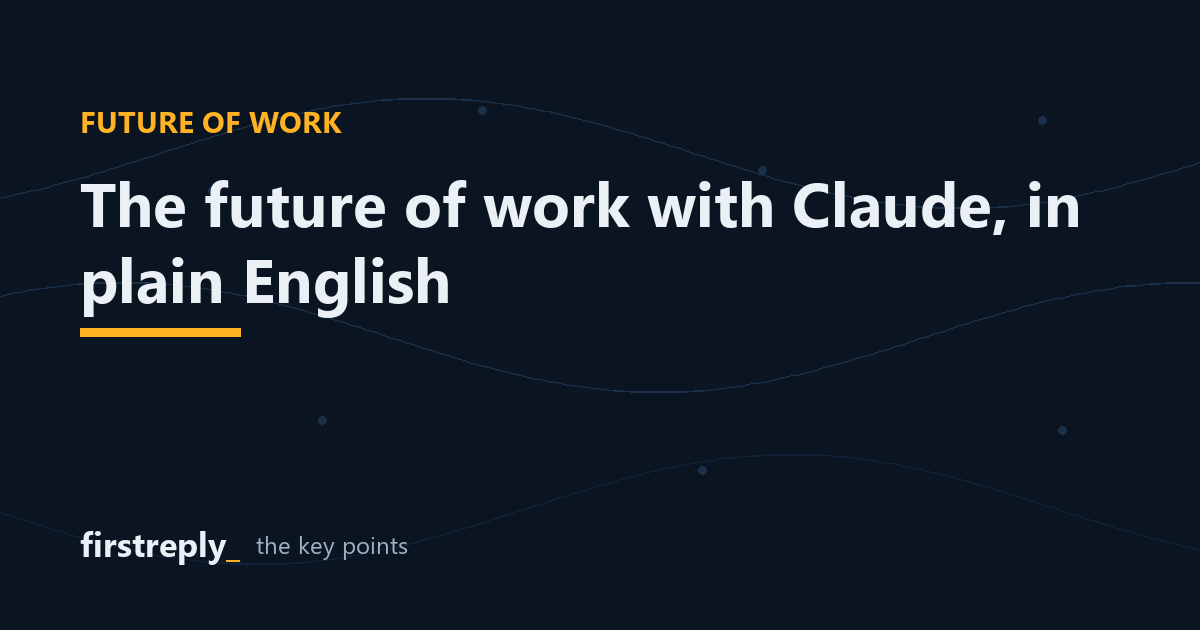
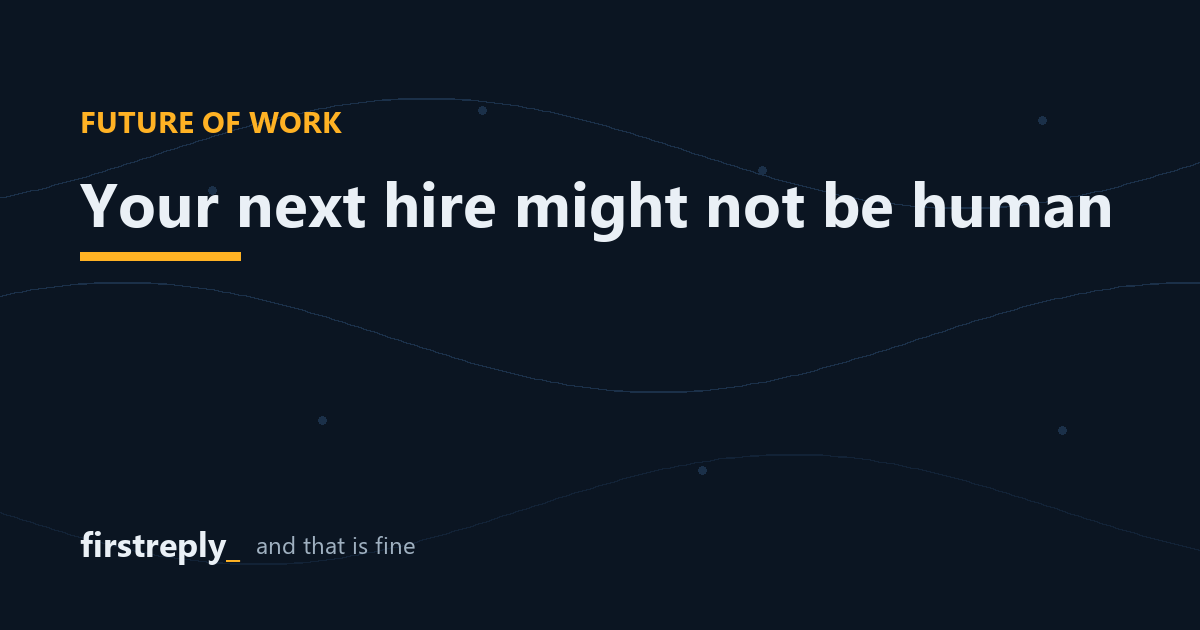
Rewrite future-of-work post in StoryBrand voice; bake voice rules into template

Changed region(s): [[0.0617, 0.2714, 0.925, 0.3921], [0.0617, 0.3921, 0.4008, 0.5429], [0.2158, 0.8444, 0.3392, 0.9048]]

diff --git a/blog/_TEMPLATE.html b/blog/_TEMPLATE.html
@@ -3,11 +3,17 @@
   POST TEMPLATE — the daily writing routine copies this file to
   blog/<slug>.html and replaces every {{PLACEHOLDER}}. Do not link to this
   file from anywhere. Rules for the writer:
+  · VOICE: follow Donald Miller's StoryBrand framework. The READER is the
+    hero; Golam is the guide (empathy + authority), never the hero. Titles
+    are about the reader's problem or transformation, not about a product
+    or piece of news ("Your next hire might not be human", NOT "Claude
+    announces X"). Open inside the reader's problem (a scene they live),
+    position the guide briefly, give a clear 3-step plan, name the stakes
+    (what failure costs), end with one call to action.
   · British English, first person (Golam's voice), practical and specific
   · 900–1,300 words, varied sentence length, no AI-hype words
     (never "revolutionise", "unleash", "supercharge", "game-changer",
     "in today's fast-paced world", "delve", "elevate")
-  · Open with a concrete scene or number, not a definition
   · At least one honest "you don't need us for this" moment
   · No invented statistics or fake client stories; keep anecdotes generic
     unless they refer to the real Diji Catering case study

diff --git a/content/posts/claude-future-of-work-key-points.md b/content/posts/claude-future-of-work-key-points.md
@@ -1,43 +1,49 @@
 ---
-title: "The future of work with Claude: the key points, in plain English"
+title: "Your next hire might not be human (and that's not a bad thing)"
 date: 2026-07-05
 image: /blog/images/claude-future-of-work.png
-description: Anthropic's "The future of work" video explains AI that works for days, remembers context and joins your team chat. Here's what it means, simply.
-teaser: AI that works for days without losing the plot, remembers what it learned, and joins your team chat. The key points, no jargon.
+description: You're working late again while the way work gets done quietly changed. Here's what's replacing the grind — and the three moves to make before your competitors do.
+teaser: You're still doing everything yourself. The way work gets done just quietly changed — here are the three moves to make first.
 archived: false
 ---
-<p>Anthropic — the company behind the Claude AI — recently published a short video called <a href="https://www.youtube.com/watch?v=MhfnicQVkgY" rel="noopener">The future of work with Claude</a>, featuring Boris Cherny and Cat Wu, the two people who run Claude Code. It's eleven minutes long, aimed mostly at a technical crowd, and easy to switch off halfway through if you don't live in that world.</p>
+<p>It's 9pm. You're still at the laptop. There's a quote to send, two enquiries you haven't answered, and a report you promised yourself you'd finish on Monday. It's Thursday.</p>
 
-<p>That would be a shame, because underneath the product talk are three shifts that will reach every business — including the ones that don't think of themselves as "tech businesses" at all. Here are the key points, translated.</p>
+<p>You didn't start your business for this. You started it for the food, or the students, or the events — the craft. The admin was supposed to be the small print. Somewhere along the way it became the job.</p>
 
-<h2>1. AI is moving from "ask and wait" to "tag it in"</h2>
+<p>Here's what I want you to know: while you were buried in that inbox, the way work gets done quietly changed. I watched an eleven-minute conversation between the two people who run Claude Code at Anthropic — <a href="https://www.youtube.com/watch?v=MhfnicQVkgY" rel="noopener">it's here if you want it</a> — and it confirmed something I've been telling clients all year. The winners of the next few years won't be the businesses that work the longest hours. They'll be the ones who learned to delegate to machines first — without handing over the steering wheel.</p>
 
-<p>The line that opens the video sums it up: <em>"In the past, you had to open Claude and ask. With Claude Tag, Claude jumps in."</em></p>
+<p>Let me translate what's coming, because it affects you more than it affects the tech crowd it was filmed for.</p>
 
-<p>Until now, using AI meant stopping what you were doing, opening a chat window, explaining everything from scratch, and copying the answer back out. The new model is different: the AI sits inside the tools your team already uses — in this case Slack — and you simply tag it into a conversation the way you'd tag a colleague. It reads what the thread already knows, does the work, and comes back when it's finished or needs a decision from you.</p>
+<h2>The assistant that stopped waiting to be asked</h2>
 
-<p>Why it matters to you: the friction was always the real barrier. Most business owners don't avoid AI because it's not clever enough — they avoid it because it's another tab, another login, another thing to remember. When the AI comes to where the work already happens, that excuse disappears.</p>
+<p>The line that opens the video: <em>"In the past, you had to open Claude and ask. With Claude Tag, Claude jumps in."</em></p>
 
-<h2>2. AI can now stay on a task for days, not minutes</h2>
+<p>Until now, AI was a vending machine. Walk over, put in a question, carry the answer back to your actual work. Useful, but the walking was on you — and that's exactly why you stopped using it after week two.</p>
 
-<p>The video describes the research behind "long-horizon" work — teaching the AI to stay on track across a task that takes days rather than losing the plot after ten minutes. Paired with a memory system that carries what it learned from one session into the next, the AI stops being a goldfish.</p>
+<p>The new generation joins the conversation where it's already happening. You tag it in like a colleague. It reads the thread, does the job, and reports back when it's done. The friction — the reason AI never stuck for you — is being deleted.</p>
 
-<p>Why it matters to you: think about what actually eats your week. It's rarely one big task — it's the long-running, drip-fed ones. Chasing a supplier across five emails. Following up a quote three times. Reconciling the month's enquiries against bookings. Those are exactly the jobs that used to be impossible to hand to AI, because it forgot everything between steps. That constraint is dissolving.</p>
+<h2>The assistant that doesn't forget you overnight</h2>
 
-<h2>3. The people building it use it for most of their own work</h2>
+<p>Two more things from that conversation matter to you. First, this AI can now stay on a task for <strong>days</strong> without losing the plot. Second, it remembers — what it learned about the work last week is still there this week.</p>
 
-<p>The most striking number in the video: <strong>65% of the Claude product team's code is now created by Claude itself</strong>. The people with the deepest knowledge of the tool's limits trust it with the majority of their core output — with humans reviewing and steering.</p>
+<p>Stop and think about what actually steals your evenings. It's rarely one big task. It's the long, drip-fed ones: the quote you've chased three times, the supplier thread that's been open since March, the follow-ups that only exist in your head. Those were impossible to hand to a machine with amnesia. They aren't any more.</p>
 
-<p>Why it matters to you: notice the shape of that arrangement, because it's the honest template for every business. The AI does the volume; the humans do the judgement. Nobody at Anthropic is letting the AI ship whatever it likes — the work is reviewed. That's the same principle we insist on at Firstreply: <a href="/blog/how-ai-helps-digital-marketing-and-seo">AI drafts, humans approve</a> — whether it's code or a reply to a customer enquiry.</p>
+<h2>The number that should change your mind</h2>
 
-<h2>What this means for a small business, practically</h2>
+<p>Here's the proof this isn't hype: <strong>65% of the Claude product team's own code is now written by Claude</strong>. The people who know this technology's flaws better than anyone on earth trust it with most of their core output.</p>
 
-<ul>
-<li><strong>Stop thinking of AI as a chatbot.</strong> The direction of travel is an assistant that lives inside your existing tools, holds context over time, and handles whole processes — not one-off questions.</li>
-<li><strong>List your "days-long" tasks.</strong> Quote follow-ups, enquiry chasing, weekly reporting, content that goes out on schedule. These are the first candidates for the new generation of AI systems.</li>
-<li><strong>Keep a human on the approve button.</strong> The world's leading AI lab reviews its AI's work before it ships. So should you — especially for anything that reaches a customer.</li>
-</ul>
+<p>But catch the second half, because it's the half that protects you: every piece of that work is <em>reviewed by a human before it ships</em>. The machine does the volume. The people do the judgement. That's not a compromise — that's the design. It's the same rule I refuse to break in the systems we build: AI drafts your customer replies, <a href="/blog/how-ai-helps-digital-marketing-and-seo">a human approves every single one</a>.</p>
 
-<p>If the "days-long task" you'd most like to hand over is answering and chasing your leads, that happens to be exactly what we build. <a href="/#book">Book a free 15-minute Lead Leak Audit</a> and we'll show you what it would look like in your business.</p>
+<h2>Your three moves (this month, not this year)</h2>
 
-<p><em>Based on <a href="https://www.youtube.com/watch?v=MhfnicQVkgY" rel="noopener">"The future of work with Claude"</a> from Anthropic's official Claude YouTube channel. Well worth the eleven minutes.</em></p>
+<ol>
+<li><strong>Stop thinking "chatbot".</strong> Start thinking "junior teammate who never sleeps". The question isn't "what can I ask it?" — it's "what job can I hand it?"</li>
+<li><strong>Write down your drip-fed tasks.</strong> The follow-ups, the chasing, the weekly reports. The tasks that take days and live in your head. That list is your delegation plan.</li>
+<li><strong>Keep your thumb on the approve button.</strong> If the world's leading AI lab reviews its AI's work, so do you. Anything that reaches a customer gets a human yes first.</li>
+</ol>
+
+<p>Because here's the fork in the road: in a year or two, some of your competitors will answer every enquiry in sixty seconds, follow up every quote without fail, and still get home for dinner. The others will still be at the laptop at 9pm, wondering how.</p>
+
+<p>You get to pick which one you are. If you want help picking the fast lane, <a href="/#book">book a free 15-minute Lead Leak Audit</a> — we'll find the tasks you should hand over first, and I'll show you exactly how the approve button stays in your hand.</p>
+
+<p><em>Based on <a href="https://www.youtube.com/watch?v=MhfnicQVkgY" rel="noopener">"The future of work with Claude"</a> from Anthropic's official Claude YouTube channel — worth your eleven minutes.</em></p>
